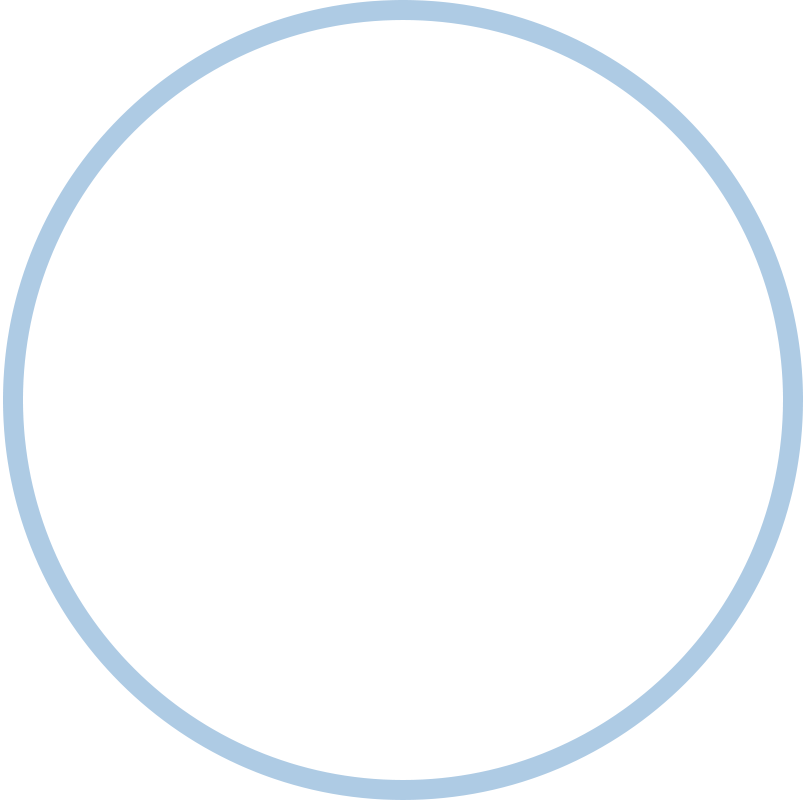
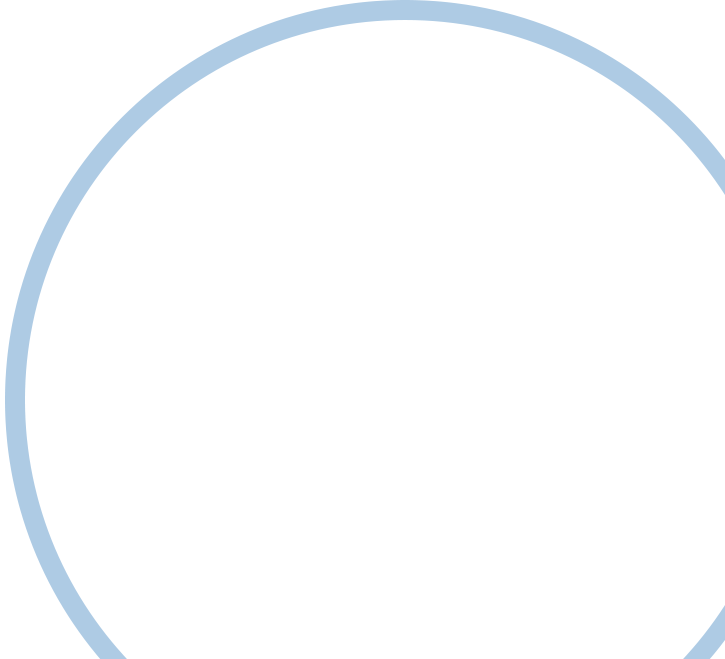
close to final version

Changed region(s): [[0.0, 0.0, 1.0, 1.0], [0.9407, 0.9105, 1.0, 1.0]]

diff --git a/styles.css b/styles.css
@@ -11,17 +11,59 @@ main {
   justify-content: center;
   align-items: center;
   background-color: hsl(0, 0%, 93%);
+  overflow: hidden;
+}
+
+.blue-circles .blue-ring .L-pink .waves-pink .two-slashes {
+  position: absolute;
+  z-index: 1;
+}
+
+.blue-circles {
+  position: absolute;
+  left: -1%;
+  height: 15%;
+}
+
+.blue-ring {
+  position: absolute;
+  right: -1%;
+  bottom: -2%;
+  width: 10%;
+}
+
+.waves-pink {
+  position: absolute;
+  top: 20%;
+  right: -1%;
+  width: 15%;
+}
+
+.two-slashes {
+  position: absolute;
+  left: 25%;
+  bottom: -2%;
+  width: 4%;
+  opacity: 50%;
+}
+
+.L-pink {
+  position: absolute;
+  top: -15%;
+  right: 40%;
+  width: 3%;
 }
 
 .container {
   background-color: hsl(0, 0%, 95%);
   overflow: hidden;
-  width: 90vw;
+  width: 85vw;
   height: 75vh;
   display: flex;
   justify-content: center;
   align-items: center;
   box-shadow: 1vh 2vh 3vh rgb(209, 209, 209);
+  position: absolute;
 }
 
 .car-types {
@@ -48,7 +90,7 @@ main {
   width: 270px;
   height: 440px;
   padding: 35px;
-  font-family: 'Lexend Deca', sans-serif;
+  font-family: "Lexend Deca", sans-serif;
   color: #eef3f2;
   position: relative;
 }
@@ -62,17 +104,17 @@ main {
 .card__name {
   text-transform: uppercase;
   font-size: 2.5rem;
-  font-family: 'Big Shoulders Display', cursive;
+  font-family: "Big Shoulders Display", cursive;
   position: absolute;
   top: 12vh;
 }
 
 .card__description {
-  font-size: 15px;
+  font-size: 16px;
   line-height: 1.3;
   position: absolute;
   top: 21vh;
-  width: 18vw;
+  width: 12rem;
 }
 
 .card__button {
@@ -90,11 +132,6 @@ main {
 .card__button:active {
   background-color: rgba(0, 0, 0, 0);
   color: #eef3f2;
-}
-
-li {
-  list-style-type: none;
-  margin: 15px 0px;
 }
 
 button p {

diff --git a/main.html b/main.html
@@ -12,6 +12,11 @@
   </head>
   <body>
     <main>
+      <img src="images/blue-circles.png" alt="blue-circles" class="blue-circles"/>
+      <img src="images/blue-ring.png" alt="blue-ring" class="blue-ring"/>
+      <img src="images/L-pink.png" alt="L-pink" class="L-pink"/>
+      <img src="images/two-slashes.png" alt="two-slashes" class="two-slashes"/>
+      <img src="images/waves-pink.png" alt="waves-pink" class="waves-pink"/>
       <div class="container">
         <div class="car-types">
           <div class="car-types__sedans card">
